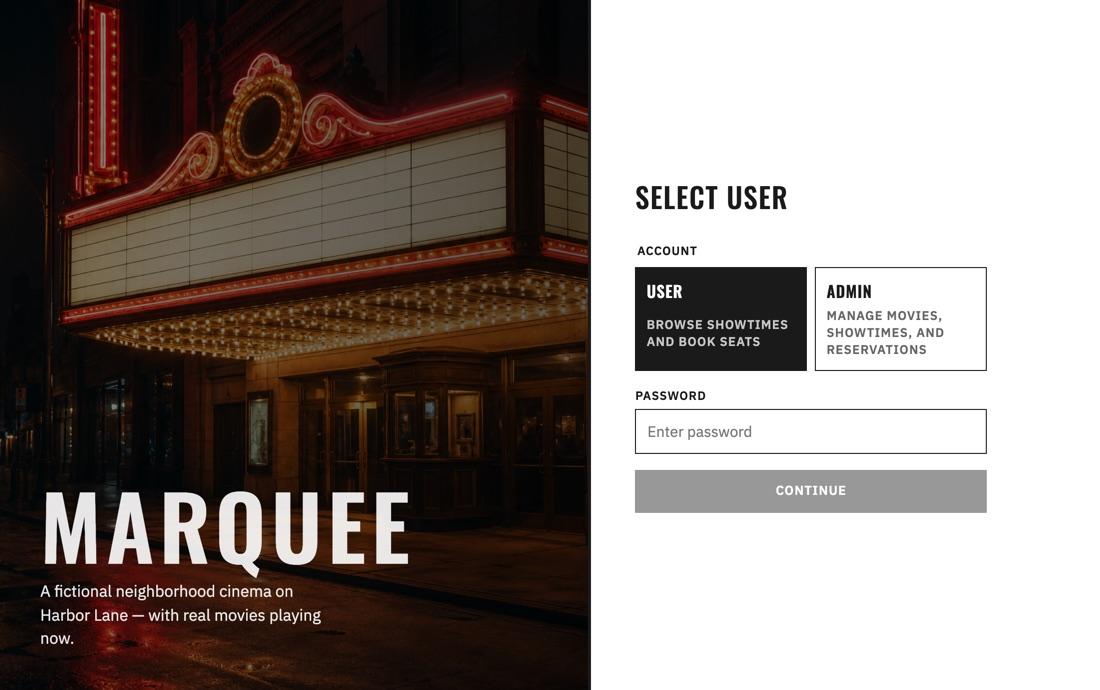
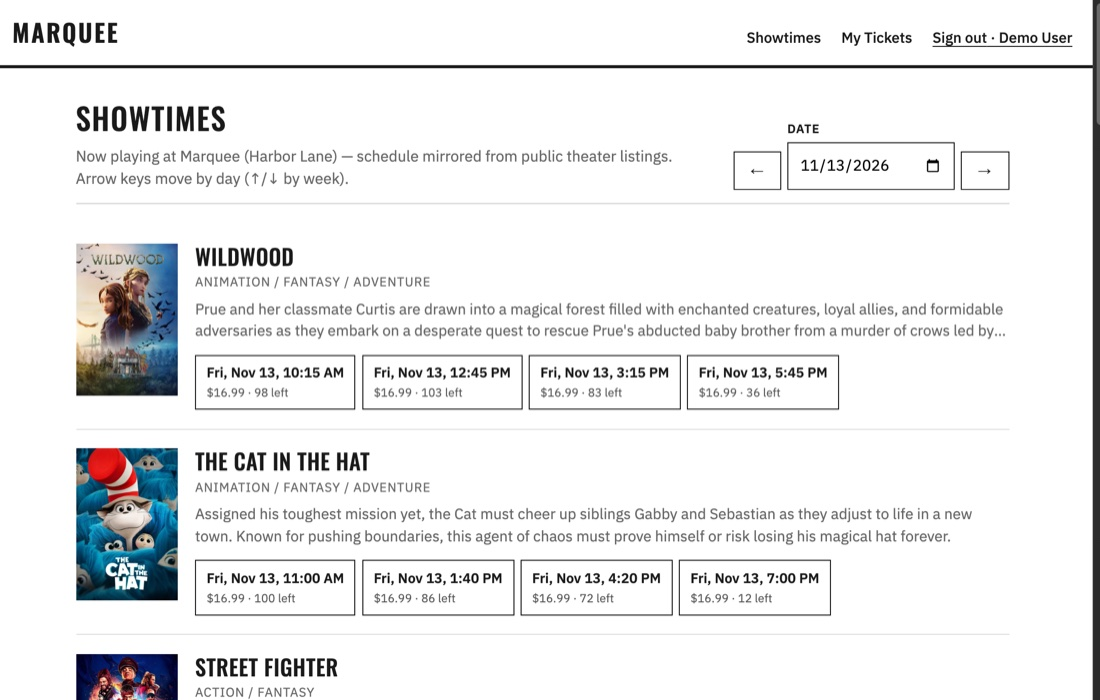
Use the Marquee showtimes page as the Movie Ticket Booking screenshot

diff --git a/index.html b/index.html
@@ -225,7 +225,7 @@
           <span class="note">Demo login in the README</span>
         </div>
         <a class="row-shot" href="https://movie-reservation-app-black.vercel.app" target="_blank" rel="noopener" aria-label="Open the live demo">
-          <img src="images/marquee.jpg?v=2" width="1100" height="690" loading="lazy" alt="The Marquee home page: a neon-lit cinema front beside a sign-in panel for choosing the User or Admin account">
+          <img src="images/marquee.jpg?v=3" width="1100" height="700" loading="lazy" alt="The Marquee showtimes page: a list of movies now playing, each with its poster, genres and showtime buttons showing price and seats left">
         </a>
       </li>
       <li class="card row">
